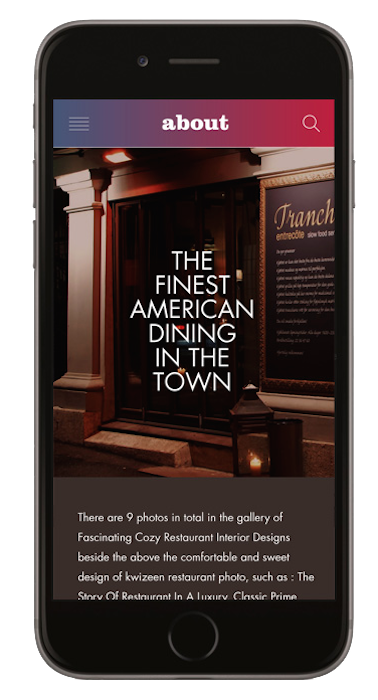
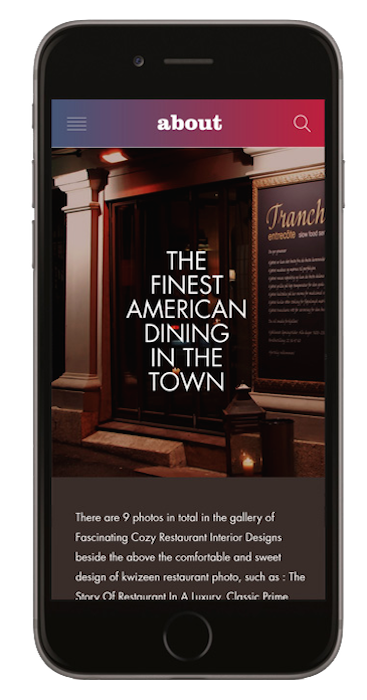
Sitio Terminado

diff --git a/css/styles.css b/css/styles.css
@@ -36,6 +36,9 @@ h1, h2, h3, h4, h5, h6 {
       text-decoration: none;
       margin-left: 1em; }
 
+.menu {
+  display: none; }
+
 #banner {
   background: linear-gradient(rgba(0, 0, 0, 0.8), rgba(0, 0, 0, 0.8)), url(../img/restaurant.png) no-repeat;
   background-size: cover;
@@ -93,7 +96,7 @@ h1, h2, h3, h4, h5, h6 {
       width: 100%;
       max-width: 100%; }
     .row .post .title {
-      font-size: 1.25em;
+      font-size: 1em;
       margin: 1em 0 0 0;
       color: #000000; }
     .row .post .post_info {
@@ -108,6 +111,7 @@ h1, h2, h3, h4, h5, h6 {
   background: #2f3032; }
   #newsletter .newsletter_inner {
     width: 600px;
+    max-width: 90%;
     margin: 0 auto; }
   #newsletter h2 {
     font-size: 1.75em;
@@ -146,5 +150,87 @@ h1, h2, h3, h4, h5, h6 {
   #main_footer .copyright {
     color: #606070;
     font-size: .75em; }
+
+@media only screen and (max-width: 768px) {
+  #main_nav {
+    display: none; }
+
+  #main_nav.active {
+    display: block;
+    width: 100%; }
+    #main_nav.active a {
+      display: block;
+      padding: 1em 0;
+      border-bottom: 1px solid #E9E9E9; }
+      #main_nav.active a:last-child {
+        border-bottom: none; }
+
+  .menu {
+    display: block;
+    float: right; }
+    .menu i {
+      font-size: 1.5em;
+      color: #000000;
+      padding-top: .6em; }
+
+  #banner {
+    padding: 3.5em 0; }
+    #banner #poster {
+      width: 250px; }
+    #banner #content {
+      margin-left: 50px; }
+      #banner #content .title {
+        font-size: 1.5em; }
+      #banner #content .description {
+        font-size: .9em; }
+      #banner #content .info {
+        color: #ffffff;
+        font-size: .7em;
+        margin-top: 2em; }
+        #banner #content .info span {
+          margin: 0 .25em; }
+
+  .row .post {
+    width: 30.6%;
+    margin: 0 1.25% 2em 1.25%; }
+    .row .post .title {
+      font-size: 1em;
+      margin: 5em 0 0 0; }
+    .row .post .post_info {
+      font-size: .65em; }
+
+  #top_movies {
+    padding: 3em 0; }
+    #top_movies header {
+      padding: 0 0 1.5em 1.25%; }
+      #top_movies header h2 {
+        font-size: 1.5em; } }
+@media only screen and (max-width: 575px) {
+  #banner #banner_content_wrapper {
+    display: block; }
+    #banner #banner_content_wrapper #poster {
+      width: 250px;
+      float: none;
+      display: block;
+      margin: 0 auto; }
+    #banner #banner_content_wrapper #content {
+      width: 100%;
+      margin: 1em auto 0 auto; }
+
+  .row .post {
+    width: 250px;
+    margin: 0 auto 2em auto;
+    float: none; } }
+#newsletter {
+  padding: 3em 0; }
+  #newsletter h2 {
+    font-size: 1.35em; }
+  #newsletter .sign_up_form {
+    margin-top: 2em; }
+    #newsletter .sign_up_form input[type="text"], #newsletter .sign_up_form input[type="email"] {
+      width: 90%;
+      margin: 0 0 1em 0; }
+  #newsletter .button {
+    margin-top: 2em; }
 
 /*# sourceMappingURL=styles.css.map */

diff --git a/scss/styles.scss b/scss/styles.scss
@@ -52,6 +52,10 @@ h1, h2, h3, h4, h5, h6 {
 	}
 }
 
+.menu {
+	display: none;
+}
+
 #banner {
 	background: linear-gradient(rgba(0,0,0,0.8), rgba(0,0,0,0.8)), url(../img/restaurant.png) no-repeat;
 	background-size: cover;
@@ -124,7 +128,7 @@ h1, h2, h3, h4, h5, h6 {
 			max-width: 100%;
 		}
 		.title {
-			font-size: 1.25em;
+			font-size: 1em;
 			margin: 1em 0 0 0;
 			color: $main;
 		}
@@ -143,6 +147,7 @@ h1, h2, h3, h4, h5, h6 {
 	background: #2f3032;
 	.newsletter_inner {
 		width: 600px;
+		max-width: 90%;
 		margin: 0 auto;
 	}
 	h2 {
@@ -188,5 +193,123 @@ h1, h2, h3, h4, h5, h6 {
 	.copyright {
 		color: $secondary;
 		font-size: .75em;
+	}
+}
+
+@media only screen and (max-width: 768px) {
+	#main_nav {
+		display: none;
+	}
+	#main_nav.active {
+		display: block;
+		width: 100%;
+		a {
+			display: block;
+			padding: 1em 0;
+			border-bottom: 1px solid #E9E9E9;
+			&:last-child {
+				border-bottom: none;
+			}
+		}
+	}
+	.menu {
+		display: block;
+		float: right;
+		i {
+			font-size: 1.5em;
+			color: $main;
+			padding-top: .6em;
+		}
+	}
+
+	#banner {
+		padding: 3.5em 0;
+		#poster {
+			width: 250px;
+		}
+		#content {
+			margin-left: 50px;
+			.title {
+				font-size: 1.5em;
+			}
+			.description {
+				font-size: .9em;
+			}
+			.info {
+				color: $white;
+				font-size: .7em;
+				margin-top: 2em;
+				span {
+					margin: 0 .25em;
+				}
+			}
+		}
+	}
+
+	.row {
+		.post {
+			width: 30.6%;
+			margin: 0 1.25% 2em 1.25%;
+			.title {
+				font-size: 1em;
+				margin: 5em 0 0 0;
+			}
+			.post_info {
+				font-size: .65em;
+			}
+		}
+	}
+
+	#top_movies {
+		padding: 3em 0;
+		header {
+			padding: 0 0 1.5em 1.25%;
+			h2 {
+				font-size: 1.5em;
+			}
+		}
+	}
+}
+
+@media only screen and (max-width: 575px) {
+	#banner {
+		#banner_content_wrapper {
+			display: block;
+			#poster {
+				width: 250px;
+				float: none;
+				display: block;
+				margin: 0 auto;
+			}
+			#content {
+				width: 100%;
+				margin: 1em auto 0 auto;
+			}
+		}
+	}
+
+	.row {
+		.post {
+			width: 250px;
+			margin: 0 auto 2em auto;
+			float: none;
+		}
+	}
+}
+
+#newsletter {
+	padding: 3em 0;
+	h2 {
+		font-size: 1.35em;
+	}
+	.sign_up_form {
+		margin-top: 2em;
+		input[type="text"], input[type="email"] {
+			width: 90%;
+			margin: 0 0 1em 0;
+		}
+	}
+	.button {
+		margin-top: 2em;
 	}
 }

diff --git a/index.html b/index.html
@@ -7,11 +7,16 @@
 	<link href='https://fonts.googleapis.com/css?family=Open+Sans' rel='stylesheet' type='text/css'>
 	<link rel="stylesheet" href="https://maxcdn.bootstrapcdn.com/font-awesome/4.5.0/css/font-awesome.min.css">
 	<link rel="stylesheet" type="text/css" href="css/styles.css">
+	<meta name="viewport" content="width=device-width, initial-scale=1">
+	<script src="https://ajax.googleapis.com/ajax/libs/jquery/2.2.0/jquery.min.js"></script>
+	<script src="js/main.js"></script>
 </head>
 <body>
 	<header id="top_header" class="clearfix">
 		<div class="wrapper">
 			<h1 class="logo">Que Comemos</h1>
+
+			<a href="#" class="menu"><i class="fa fa-bars"></i></a>
 			<nav id="main_nav">
 				<a href="#">Restaurantes</a>
 				<a href="#">Platillos</a>
@@ -50,41 +55,31 @@
 					<h3 class="title">Restaurantes Cercanos</h3>
 					<p class="post_info">Conoce los restaurantes cercanos a tu ubicación.</p>
 				</div>
-			</div>
 
-			<div class="row">
 				<div class="post">
 					<img src="img/3.png" alt="Near Places">
 					<h3 class="title">Restaurantes Cercanos</h3>
 					<p class="post_info">Conoce los restaurantes cercanos a tu ubicación.</p>
 				</div>
-			</div>
 
-			<div class="row">
 				<div class="post">
 					<img src="img/1.png" alt="Near Places">
 					<h3 class="title">Restaurantes Cercanos</h3>
 					<p class="post_info">Conoce los restaurantes cercanos a tu ubicación.</p>
 				</div>
-			</div>
 
-			<div class="row">
 				<div class="post">
 					<img src="img/3.png" alt="Near Places">
 					<h3 class="title">Restaurantes Cercanos</h3>
 					<p class="post_info">Conoce los restaurantes cercanos a tu ubicación.</p>
 				</div>
-			</div>
 
-			<div class="row">
 				<div class="post">
 					<img src="img/1.png" alt="Near Places">
 					<h3 class="title">Restaurantes Cercanos</h3>
 					<p class="post_info">Conoce los restaurantes cercanos a tu ubicación.</p>
 				</div>
-			</div>
 
-			<div class="row">
 				<div class="post">
 					<img src="img/3.png" alt="Near Places">
 					<h3 class="title">Restaurantes Cercanos</h3>

diff --git a/js/main.js b/js/main.js
@@ -1,0 +1,11 @@
+$(document).ready(function() {
+
+	$('.menu').click(function(e) {
+		e.stopPropagation();
+		$('#main_nav').toggleClass('active');
+	});
+
+	$(document).click(function() {
+        $('#main_nav').removeClass('active');
+	});
+});
